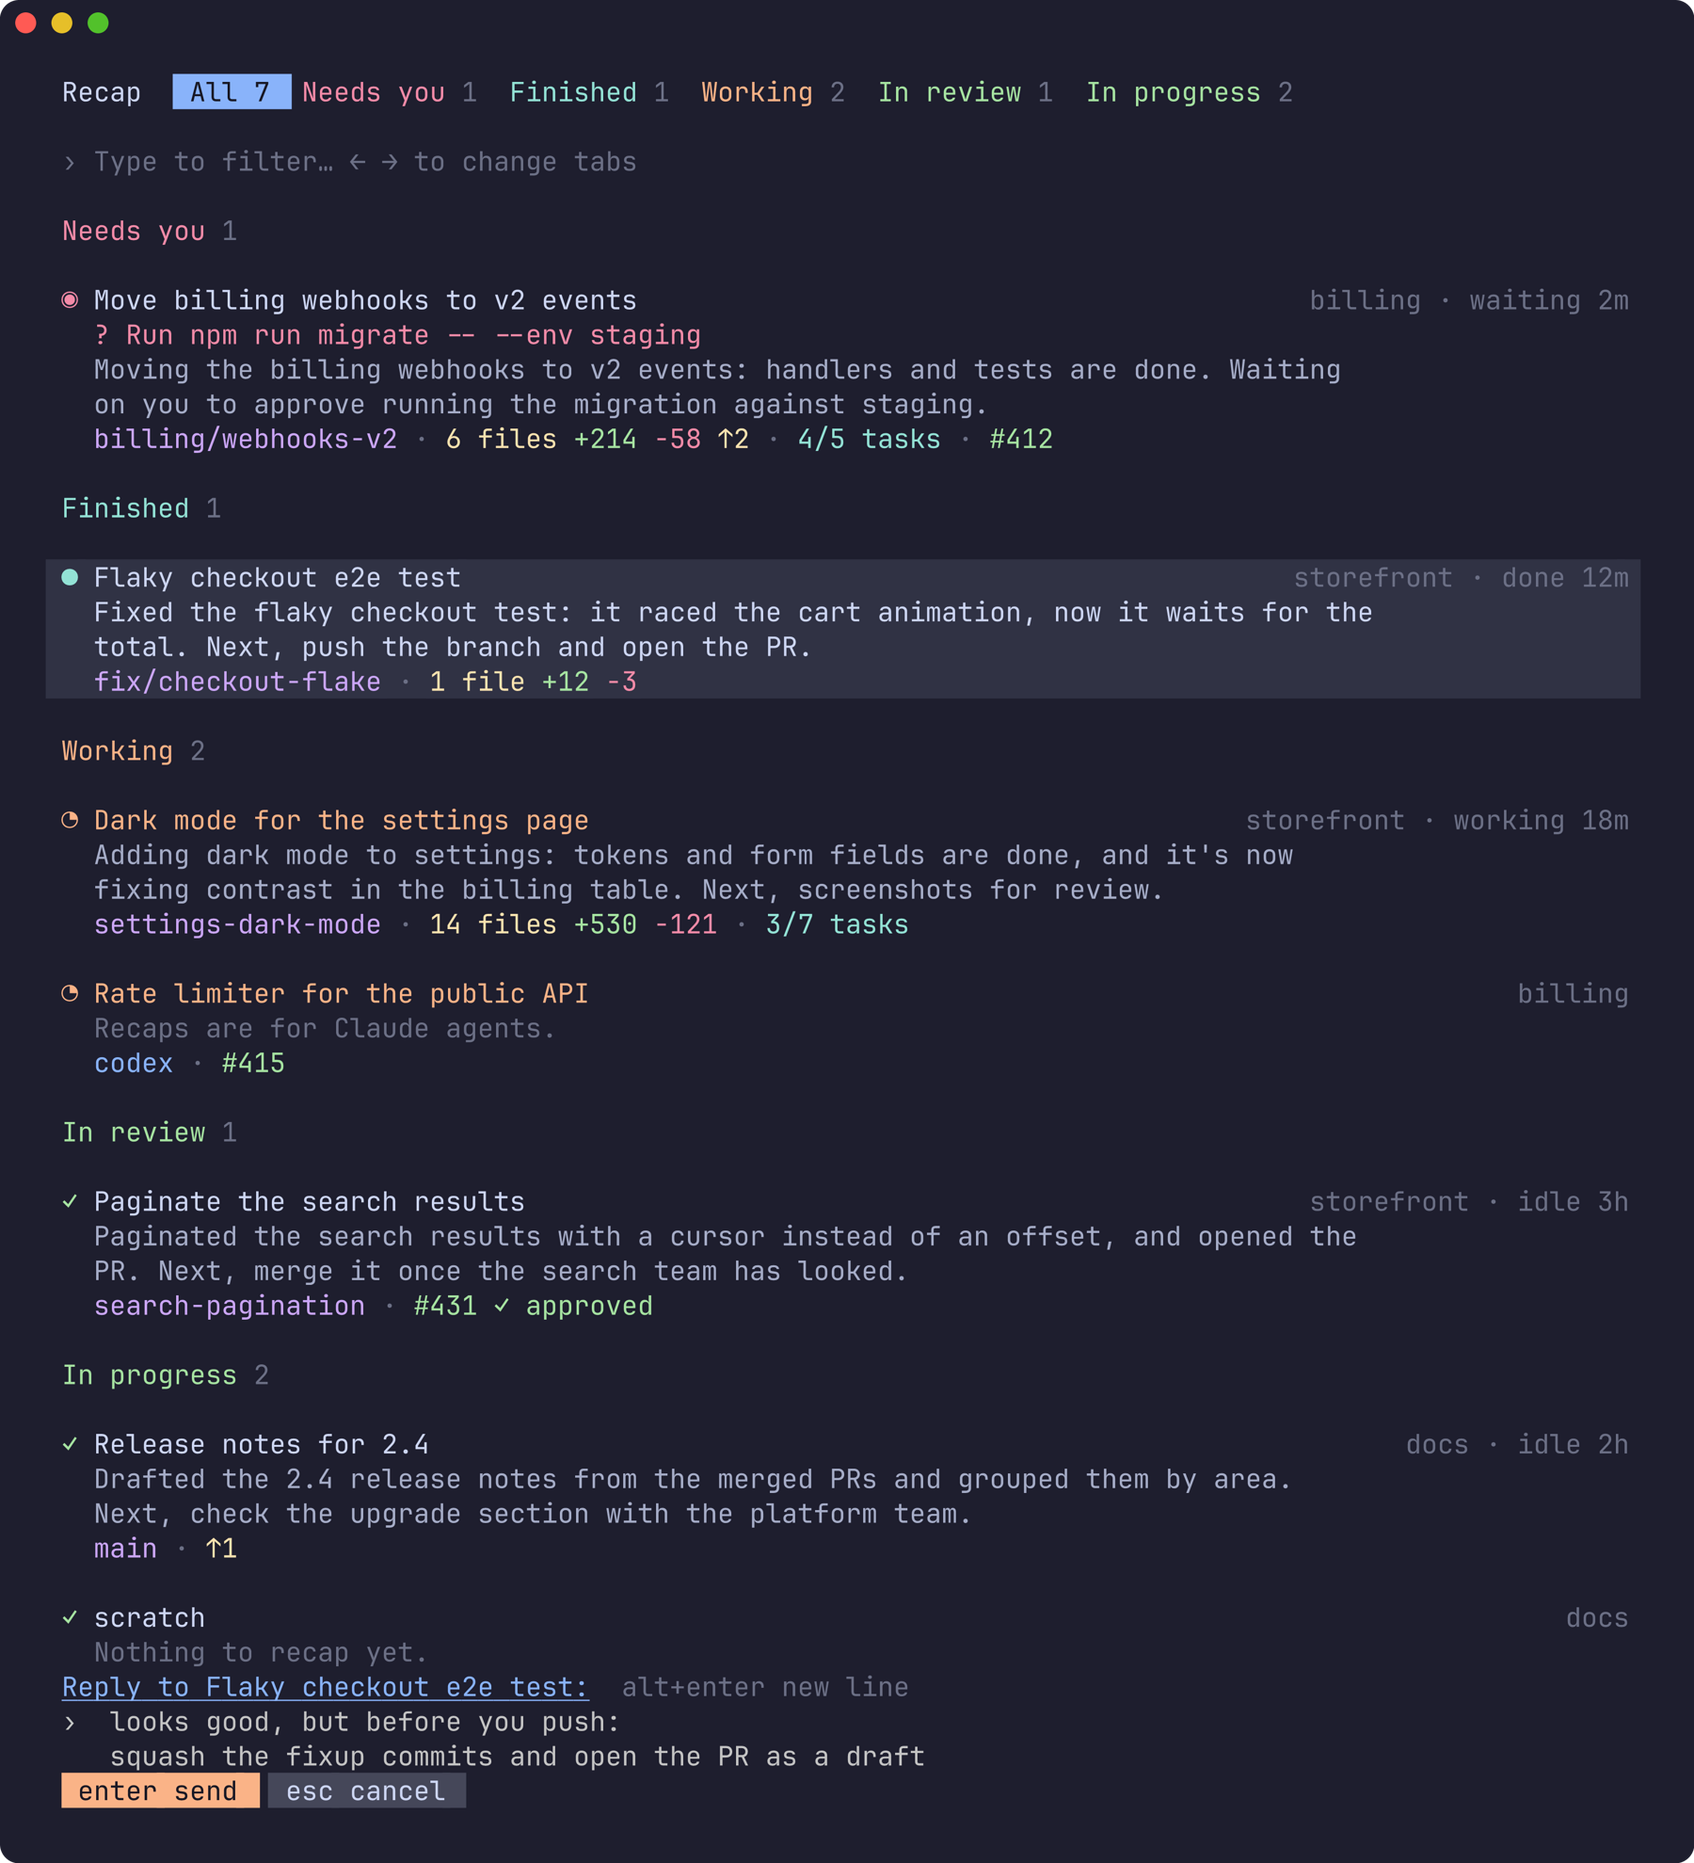
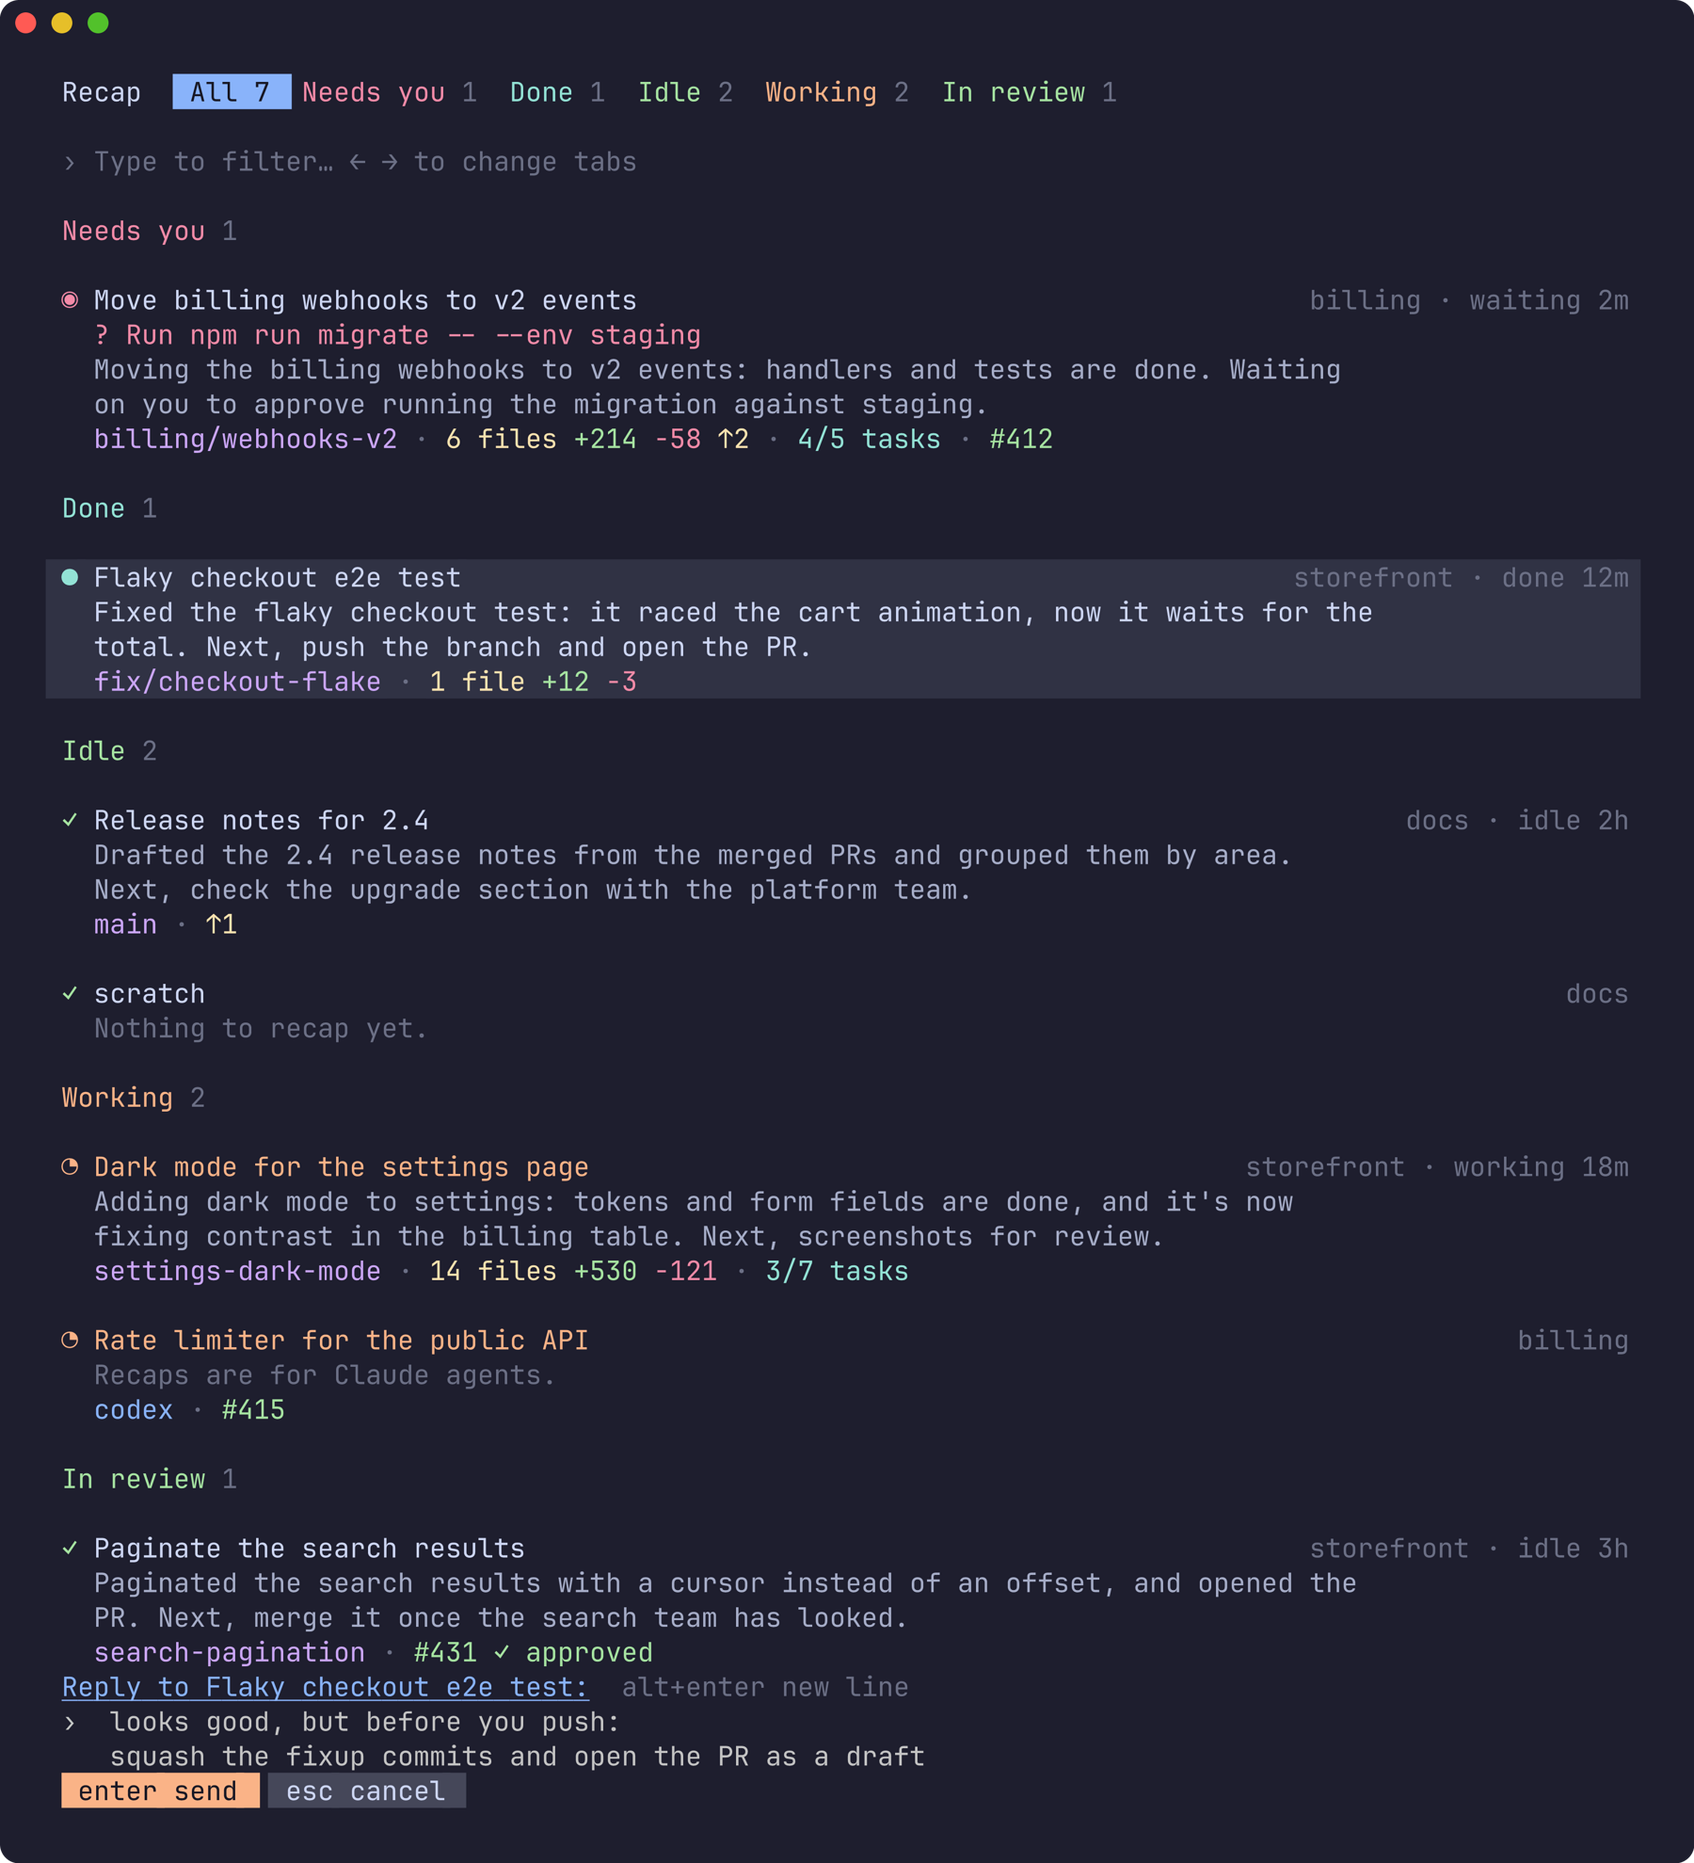
Release 0.4.1: Done and Idle, in the order of whose move it is
Finished is Done, herdr's own word for the status and the one on the row.
In progress is Idle: nothing is in progress there, the agent is waiting to
be set going. The stages are ordered by whose move it is: Needs you, Done,
Needs fixing and Idle are yours, then Working, In review and Merged. Idle
was after In review.

Screenshots regenerated.

diff --git a/stage_test.go b/stage_test.go
@@ -24,11 +24,11 @@ func TestAnAgentsStageComesFromItsStatusThenItsPR(t *testing.T) {
 		want    stage
 	}{
 		{"asking", "blocked", pr("pr_state", "merged"), gitChanges{}, stageNeedsYou},
-		{"a turn you haven't seen", "done", pr("pr_state", "merged"), gitChanges{}, stageFinished},
+		{"a turn you haven't seen", "done", pr("pr_state", "merged"), gitChanges{}, stageDone},
 		{"on the next thing after a merge", "working", pr("pr_state", "merged"), gitChanges{}, stageWorking},
-		{"no PR", "idle", nil, gitChanges{}, stageInProgress},
-		{"a PR with no state (not herdr-github's)", "idle", pr("pr", "#415"), gitChanges{}, stageInProgress},
-		{"a draft", "idle", pr("pr_state", "draft", "pr_checks", "✓"), gitChanges{}, stageInProgress},
+		{"no PR", "idle", nil, gitChanges{}, stageIdle},
+		{"a PR with no state (not herdr-github's)", "idle", pr("pr", "#415"), gitChanges{}, stageIdle},
+		{"a draft", "idle", pr("pr_state", "draft", "pr_checks", "✓"), gitChanges{}, stageIdle},
 		{"a failing draft", "idle", pr("pr_state", "draft", "pr_checks", "✗"), gitChanges{}, stageFixing},
 		{"open, checks running", "idle", pr("pr_state", "open", "pr_checks", "●"), gitChanges{}, stageReview},
 		{"open, with work to push", "idle", pr("pr_state", "open"), gitChanges{Files: 2, Ahead: 1}, stageReview},
@@ -38,8 +38,8 @@ func TestAnAgentsStageComesFromItsStatusThenItsPR(t *testing.T) {
 		{"merged", "idle", pr("pr_state", "merged"), gitChanges{}, stageMerged},
 		{"merged, main has moved on", "idle", pr("pr_state", "merged"), gitChanges{Behind: 4}, stageMerged},
 		{"closed", "idle", pr("pr_state", "closed"), gitChanges{}, stageMerged},
-		{"merged, then edited", "idle", pr("pr_state", "merged"), gitChanges{Files: 1}, stageInProgress},
-		{"merged, then committed to", "idle", pr("pr_state", "merged"), gitChanges{Ahead: 1}, stageInProgress},
+		{"merged, then edited", "idle", pr("pr_state", "merged"), gitChanges{Files: 1}, stageIdle},
+		{"merged, then committed to", "idle", pr("pr_state", "merged"), gitChanges{Ahead: 1}, stageIdle},
 	} {
 		e := &entry{agent: agentInfo{Status: c.status, Tokens: c.tokens}, changes: c.changes}
 		if got := stageOf(e); got != c.want {
@@ -59,7 +59,7 @@ func TestNewWorkAfterAMergePutsAnAgentBackInProgress(t *testing.T) {
 	// It starts on the next thing: git says there's work in its worktree.
 	next, _ := m.Update(changesMsg{pane: "w1:p4", at: e.branchAt, changes: gitChanges{Files: 3}})
 	m = next.(model)
-	if stageOf(m.entries["w1:p4"]) != stageInProgress || m.order[len(m.order)-1] == "w1:p4" {
+	if stageOf(m.entries["w1:p4"]) != stageIdle || m.order[len(m.order)-1] == "w1:p4" {
 		t.Errorf("still listed as merged: %s", paneOrder(m))
 	}
 	if m.selectedPane() != "w1:p4" {
@@ -70,7 +70,7 @@ func TestNewWorkAfterAMergePutsAnAgentBackInProgress(t *testing.T) {
 func TestTheTopOfAScrolledListSaysItsStage(t *testing.T) {
 	m, _ := demoModel(t)
 	m.height = 14             // a few entries at a time
-	m.cursor, m.offset = 3, 3 // the second of the two working
+	m.cursor, m.offset = 5, 5 // the second of the two working
 	lines := strings.Split(ansi.Strip(m.View()), "\n")
 	if got := strings.TrimSpace(lines[listTop]); got != "Working 2" {
 		t.Errorf("the list starts with %q", got)
@@ -78,23 +78,25 @@ func TestTheTopOfAScrolledListSaysItsStage(t *testing.T) {
 	if lines[listTop+1] != "" {
 		t.Errorf("under the heading: %q", lines[listTop+1])
 	}
-	if i, ok := m.entryAt(listTop + 2); !ok || i != 3 {
+	if i, ok := m.entryAt(listTop + 2); !ok || i != 5 {
 		t.Errorf("under the heading is entry %d, %v", i, ok)
 	}
 }
 
 func TestTheFilterMatchesAStage(t *testing.T) {
 	m, _ := demoModel(t)
-	if got := paneOrder(typeText(m, "progress")); got != "w3:p2 w3:p4" {
+	// A map of its own: the demo's agents share theirs between tests.
+	m.entries["w1:p4"].agent.Tokens = map[string]string{"pr_state": "open", "pr_checks": "✗"}
+	if got := paneOrder(typeText(m, "needs fixing")); got != "w1:p4" {
 		t.Errorf("lists %s", got)
 	}
 }
 
 func TestAStagesTabListsOnlyItsAgents(t *testing.T) {
 	m, _ := demoModel(t)
-	m.cursor = 2 // the first of the two working
-	for range 3 {
-		m = press(m, "right") // All, Needs you, Finished, Working
+	m.cursor = 4 // the first of the two working
+	for range 4 {
+		m = press(m, "right") // All, Needs you, Done, Idle, Working
 	}
 	if m.show != stageWorking || paneOrder(m) != "w1:p1 w2:p3" || m.selectedPane() != "w1:p1" {
 		t.Fatalf("showing %s: %s, on %s", m.show.label(), paneOrder(m), m.selectedPane())
@@ -118,7 +120,7 @@ func TestAStagesTabListsOnlyItsAgents(t *testing.T) {
 		t.Errorf("after esc twice: showing %d, %s", m.show, paneOrder(m))
 	}
 	// Left from All goes round to the last tab.
-	if m = press(m, "left"); m.show != stageInProgress {
+	if m = press(m, "left"); m.show != stageReview {
 		t.Errorf("left of All is %s", m.show.label())
 	}
 }
@@ -136,7 +138,7 @@ func TestClickingATabShowsItsStage(t *testing.T) {
 			t.Errorf("cells %d-%d hold %q, want %s", tab.x0, tab.x1, got, want)
 		}
 	}
-	review := tabs[4]
+	review := tabs[5]
 	next, _ := m.Update(tea.MouseMsg{X: review.x0 + 1, Y: 0, Action: tea.MouseActionPress, Button: tea.MouseButtonLeft})
 	if m = next.(model); m.show != stageReview || paneOrder(m) != "w1:p4" {
 		t.Errorf("showing %s: %s", m.show.label(), paneOrder(m))
@@ -163,7 +165,7 @@ func TestTheTabsFitANarrowPopup(t *testing.T) {
 			t.Errorf("at %d wide the tabs take %d, the last ending at %d", w, got, tabs[len(tabs)-1].x1)
 		}
 	}
-	if line, _ := m.tabBar(); !strings.Contains(ansi.Strip(line), "WIP 2") {
+	if line, _ := m.tabBar(); !strings.Contains(ansi.Strip(line), "Review 1") {
 		t.Errorf("not shortened: %q", ansi.Strip(line))
 	}
 }

diff --git a/stage.go b/stage.go
@@ -10,29 +10,29 @@ import (
 // stage is where an agent's work has got to, which the list is grouped by:
 // its status while that says something (it's asking, it finished a turn,
 // it's at work), and once it's idle, its pull request (herdr-github's pr_*
-// tokens). In list order.
+// tokens). In list order: whose move it is, yours first.
 type stage int
 
 const (
-	stageNeedsYou   stage = iota // blocked on a question or an approval
-	stageFinished                // finished a turn you haven't looked at
-	stageFixing                  // idle, its PR failing, in conflict or sent back
-	stageWorking                 // at work
-	stageReview                  // idle, its PR open and nothing wrong with it
-	stageInProgress              // idle, with no PR out for review
-	stageMerged                  // idle, its PR merged or closed and nothing new since
+	stageNeedsYou stage = iota // blocked on a question or an approval
+	stageDone                  // finished a turn you haven't looked at
+	stageFixing                // idle, its PR failing, in conflict or sent back
+	stageIdle                  // idle, with no PR out for review: yours to set going
+	stageWorking               // at work
+	stageReview                // idle, its PR open and nothing wrong with it: someone else's
+	stageMerged                // idle, its PR merged or closed and nothing new since
 )
 
 // stageOf derives an agent's stage. A status that says something wins over
 // the PR: an agent started on the next thing after a merge is at work, not
 // merged. So does new work in its worktree, between turns. (Its next branch
-// has no PR, so herdr-github clears the tokens and it's in progress anyway.)
+// has no PR, so herdr-github clears the tokens and it's idle anyway.)
 func stageOf(e *entry) stage {
 	switch e.agent.Status {
 	case "blocked":
 		return stageNeedsYou
 	case "done":
-		return stageFinished
+		return stageDone
 	case "working":
 		return stageWorking
 	}
@@ -40,7 +40,7 @@ func stageOf(e *entry) stage {
 	switch t["pr_state"] {
 	case "merged", "closed":
 		if e.changes.Files > 0 || e.changes.Ahead > 0 {
-			return stageInProgress
+			return stageIdle
 		}
 		return stageMerged
 	case "open", "draft":
@@ -52,7 +52,7 @@ func stageOf(e *entry) stage {
 			return stageReview
 		}
 	}
-	return stageInProgress
+	return stageIdle
 }
 
 // stageAll is the tab that lists every stage, grouped under headings.
@@ -62,8 +62,8 @@ func (s stage) label() string {
 	switch s {
 	case stageNeedsYou:
 		return "Needs you"
-	case stageFinished:
-		return "Finished"
+	case stageDone:
+		return "Done"
 	case stageFixing:
 		return "Needs fixing"
 	case stageWorking:
@@ -73,7 +73,7 @@ func (s stage) label() string {
 	case stageMerged:
 		return "Merged"
 	}
-	return "In progress"
+	return "Idle"
 }
 
 // short is the label for a popup too narrow for the tabs in full.
@@ -83,7 +83,7 @@ func (s stage) short() string {
 		return "All"
 	case stageNeedsYou:
 		return "You"
-	case stageFinished:
+	case stageDone:
 		return "Done"
 	case stageFixing:
 		return "Fix"
@@ -94,14 +94,14 @@ func (s stage) short() string {
 	case stageMerged:
 		return "Merged"
 	}
-	return "WIP"
+	return "Idle"
 }
 
 func (s stage) style() lipgloss.Style {
 	switch s {
 	case stageNeedsYou:
 		return styleBlocked
-	case stageFinished:
+	case stageDone:
 		return styleDone
 	case stageFixing:
 		return styleErr

diff --git a/tui_test.go b/tui_test.go
@@ -64,9 +64,9 @@ func paneOrder(m model) string { return strings.Join(m.order, " ") }
 
 func TestWhatNeedsYouComesFirst(t *testing.T) {
 	m, _ := demoModel(t)
-	// blocked, done, working (two, in sidebar order: storefront, billing),
-	// then the idle ones: in review, and in progress
-	if got := paneOrder(m); got != "w2:p1 w1:p3 w1:p1 w2:p3 w1:p4 w3:p2 w3:p4" {
+	// blocked, done, the idle ones with no PR out, working (two, in sidebar
+	// order: storefront, billing), then the one in review
+	if got := paneOrder(m); got != "w2:p1 w1:p3 w3:p2 w3:p4 w1:p1 w2:p3 w1:p4" {
 		t.Errorf("order %s", got)
 	}
 }
@@ -97,8 +97,8 @@ func TestTheViewShowsStatusTitleAndRecap(t *testing.T) {
 	m.height = 50 // room for every agent and its stage's heading
 	v := ansi.Strip(m.View())
 	for _, want := range []string{
-		"Recap   All 7  Needs you 1  Finished 1  Working 2  In review 1  In progress 2",
-		"Needs you 1", "Finished 1", "Working 2", "In review 1", "In progress 2",
+		"Recap   All 7  Needs you 1  Done 1  Idle 2  Working 2  In review 1",
+		"Needs you 1", "Done 1", "Idle 2", "Working 2", "In review 1",
 		"◉ Move billing webhooks to v2 events", "billing · waiting 2m",
 		"billing/webhooks-v2 · 6 files +214 −58 ↑2 · 4/5 tasks · #412",
 		"? Run npm run migrate -- --env staging",
@@ -120,7 +120,7 @@ func TestTheViewShowsStatusTitleAndRecap(t *testing.T) {
 
 func TestTheCursorFollowsItsAgentWhenTheOrderChanges(t *testing.T) {
 	m, _ := demoModel(t)
-	m.cursor = 2 // w1:p1, working
+	m.cursor = 4 // w1:p1, working
 	agents, ws, _ := m.src.agents()
 	for i := range agents {
 		if agents[i].PaneID == "w1:p1" {
@@ -267,7 +267,7 @@ func TestCtrlRRecapsTheSelectedAgentAgain(t *testing.T) {
 		t.Errorf("forced %d", src.forced)
 	}
 	// Nothing to recap: says so rather than asking Claude.
-	m.cursor = len(m.order) - 1 // the empty conversation
+	m.cursor = 3 // the empty conversation
 	next, cmd = m.Update(tea.KeyMsg{Type: tea.KeyCtrlR})
 	if cmd != nil || next.(model).flash != "Nothing to recap yet." {
 		t.Errorf("flash %q", next.(model).flash)

diff --git a/tui.go b/tui.go
@@ -297,7 +297,7 @@ func (m model) Update(msg tea.Msg) (tea.Model, tea.Cmd) {
 		if e := m.entries[msg.pane]; e != nil && e.branchAt == msg.at {
 			was := stageOf(e)
 			e.changes = msg.changes
-			// New work in a merged PR's worktree puts it back in progress.
+			// New work in a merged PR's worktree makes it idle, not merged.
 			if stageOf(e) != was {
 				m.resort(m.selectedPane())
 			}

diff --git a/README.md b/README.md
@@ -4,7 +4,7 @@ Where every agent got to, in one [herdr](https://herdr.dev) popup: what
 needs you, what's done, what each one was doing, and a line to answer it
 from without leaving the list.
 
-![The popup on the demo's agents, grouped by stage under tabs: one that needs you, one finished, two working, one in review, two in progress](docs/images/agents.png)
+![The popup on the demo's agents, grouped by stage under tabs: one that needs you, one done, two idle, two working, one in review](docs/images/agents.png)
 
 ## Why
 
@@ -36,23 +36,24 @@ Open it (`prefix+alt+r`) and read down. Each agent is a few lines:
   has waited longest comes first, and the right side says for how long:
   *waiting 2m*, *done 12m*, *working 18m*.
 - **Grouped by where the work has got to.** Each group has a heading and a
-  count, in this order:
+  count, in the order of whose move it is: yours first, then the agent's,
+  then a reviewer's.
 
   | Stage | Which agents |
   | --- | --- |
   | **Needs you** | stopped on a question or an approval |
-  | **Finished** | finished a turn you haven't looked at |
+  | **Done** | finished a turn you haven't looked at |
   | **Needs fixing** | idle, its PR failing its checks, in conflict or with changes requested |
+  | **Idle** | idle, with no PR out for review (none yet, or a draft): waiting for you to set it going |
   | **Working** | at work |
   | **In review** | idle, its PR open with nothing wrong with it |
-  | **In progress** | idle, with no PR out for review (none yet, or a draft) |
   | **Merged** | idle, its PR merged or closed and nothing new in its worktree |
 
   What an agent is doing right now wins over its PR: start one on the next
-  thing after a merge and it's *Working*, and between turns *In progress*
-  once it has edited or committed something, or moved to a new branch. The
-  PR stages need [herdr-github](https://github.com/mrolafsson/herdr-github)'s
-  tokens; without it, idle agents are all *In progress*.
+  thing after a merge and it's *Working*, and between turns *Idle* once it
+  has edited or committed something, or moved to a new branch. The PR
+  stages need [herdr-github](https://github.com/mrolafsson/herdr-github)'s
+  tokens; without it, idle agents are all *Idle*.
 - **The stages are tabs along the top.** *All*, then each stage that has
   agents, in its colour with its count. `←` / `→` or a click shows one
   stage's agents alone; `esc` goes back to *All*. A stage's name filters

diff --git a/CHANGELOG.md b/CHANGELOG.md
@@ -1,5 +1,14 @@
 # Changelog
 
+## 0.4.1 - 2026-10-10
+
+- **Two stages renamed.** *Finished* is *Done*, herdr's own word for it and
+  the one on the row; *In progress* is *Idle*: nothing is in progress there,
+  it's waiting for you to set it going.
+- **The stages are in the order of whose move it is.** *Needs you*, *Done*,
+  *Needs fixing* and *Idle* are yours; then *Working*, *In review* and
+  *Merged*. *Idle* was after *In review*.
+
 ## 0.4.0 - 2026-10-10
 
 - **The list is grouped by stage.** Under a heading with a count each: *Needs
